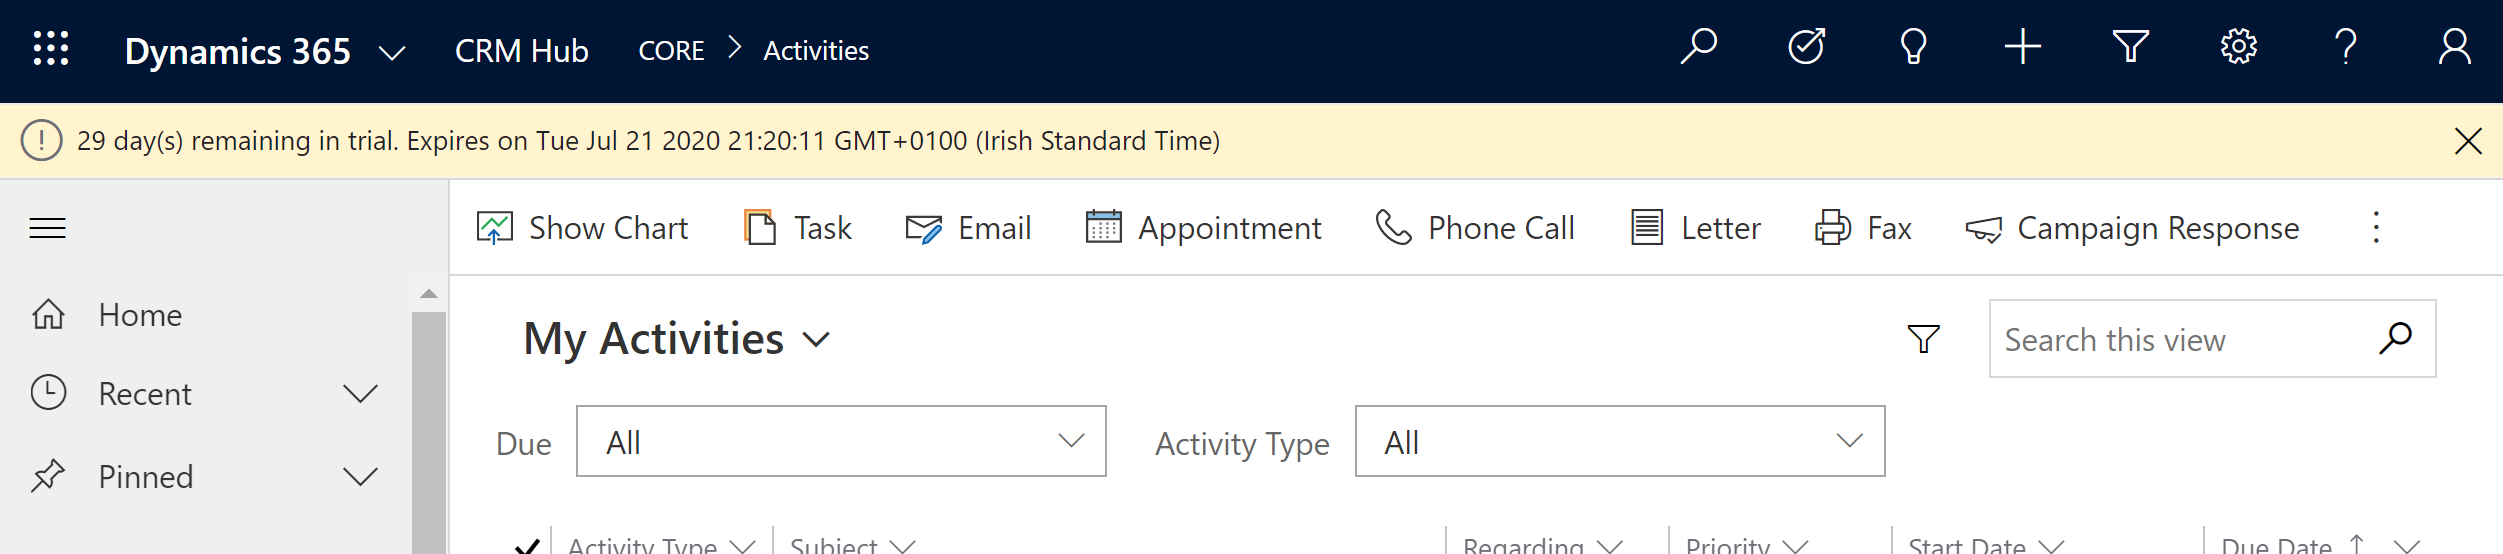
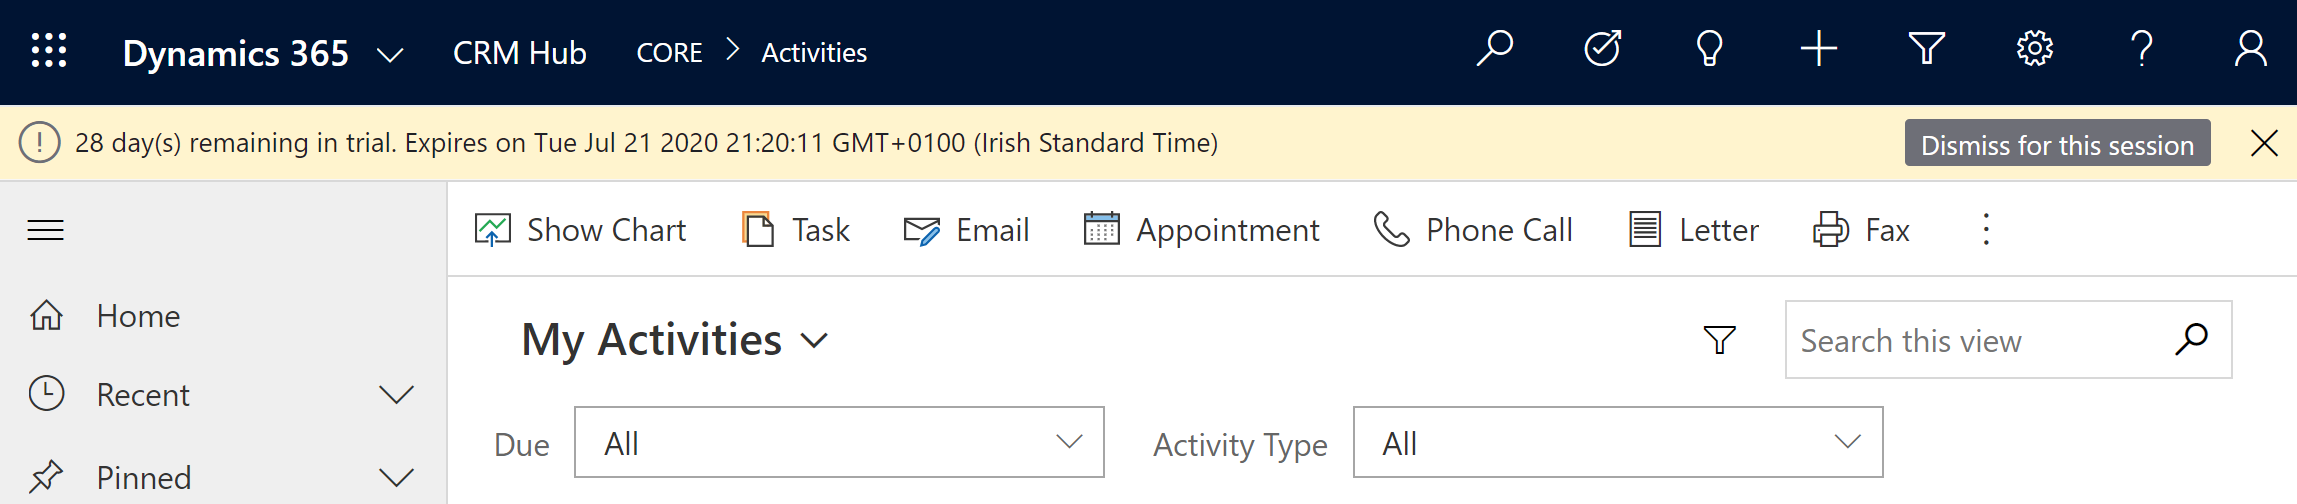
Added button to hide the notification for the current session

diff --git a/src/script.js b/src/script.js
@@ -1,73 +1,96 @@
-(function () {
+(function (Xrm, Promise) {
     "use strict";
 
-    // Prevent the script running more than once
-    if (!window.daysRemainingNotification) {
-        window.daysRemainingNotification = true;
+    var TRIAL_DURATION_IN_DAYS = 30;
 
-        var Xrm = window.Xrm;
-        var Promise = window.Promise || window.parent.Promise;
-
-        var TRIAL_DURATION_IN_DAYS = 30;
-
-        var notification = {
-            level: 4,
-            showCloseButton: true,
-            type: 2
-        };
-
-        function getCreatedOnDate() {
-            if (localStorage.getItem("ORG_CREATED_ON")) {
-                return Promise.resolve();
-            }
-
-            return Xrm.WebApi.retrieveMultipleRecords('organization', '?$select=createdon').then(
-                function success(results) {
-                    localStorage.setItem("ORG_CREATED_ON", results.entities[0].createdon);
-                }
-            )
+    var notification = {
+        level: 4,               // Information
+        type: 2,                // Top
+        showCloseButton: true,
+        action: {
+            actionLabel: "Dismiss for this session",
+            eventHandler: dismissNotification
         }
+    };
 
-        function setNotificationMessage() {
-            var daysRemaining = getDaysRemaining();
-            var expiry = getExpiryDate();
-
-            notification.message = daysRemaining + " day(s) remaining in trial. Expires on " + expiry;
-        }
-
-        function getDaysRemaining() {
-            var createdDate = new Date(localStorage.getItem("ORG_CREATED_ON"));
-            var currentDate = new Date();
-            return TRIAL_DURATION_IN_DAYS - getDaysDifference(createdDate, currentDate);
-        }
-
-        function getExpiryDate() {
-            var createdDate = new Date(localStorage.getItem("ORG_CREATED_ON"));
-            var expiry = addDays(TRIAL_DURATION_IN_DAYS, createdDate);
-            return expiry;
-        }
-
-        function getDaysDifference(fromDate, toDate) {
-            // https://stackoverflow.com/questions/2627473/how-to-calculate-the-number-of-days-between-two-dates
-            var ONE_DAY = 1000 * 60 * 60 * 24;
-            var differenceMs = Math.abs(toDate - fromDate);
-            return Math.round(differenceMs / ONE_DAY);
-        }
-
-        function addDays(numberOfDays, toDate) {
-            // https://stackoverflow.com/questions/563406/add-days-to-javascript-date
-            var date = new Date(toDate);
-            date.setDate(date.getDate() + numberOfDays);
-            return date;
-        }
-
-        function showNotification() {
-            Xrm.App.addGlobalNotification(notification);
-        }
+    if (scriptShouldLoad()) {
+        preventLoadingTwice();
 
         Promise.resolve()
-            .then(getCreatedOnDate)
+            .then(retrieveCreatedOnDate)
             .then(setNotificationMessage)
             .then(showNotification);
     }
-}())
+
+    function scriptShouldLoad() {
+        // User has clicked the button to dismiss
+        if (sessionStorage.getItem("EXPIRY_MESSAGE_HIDDEN")) return false;
+
+        // Script has already run on this browser window
+        return !window.daysRemainingNotification;
+    }
+
+    function preventLoadingTwice() {
+        window.daysRemainingNotification = true;
+    }
+
+    function retrieveCreatedOnDate() {
+        if (localStorage.getItem("ORG_CREATED_ON")) {
+            return Promise.resolve();
+        }
+
+        return Xrm.WebApi.retrieveMultipleRecords("organization", "?$select=createdon").then(
+            function success(results) {
+                localStorage.setItem("ORG_CREATED_ON", results.entities[0].createdon);
+            }
+        );
+    }
+
+    function setNotificationMessage() {
+        var daysRemaining = getDaysRemaining();
+        var expiry = getExpiryDate();
+
+        notification.message = daysRemaining + " day(s) remaining in trial. Expires on " + expiry;
+    }
+
+    function getDaysRemaining() {
+        var createdDate = new Date(localStorage.getItem("ORG_CREATED_ON"));
+        var currentDate = new Date();
+        return TRIAL_DURATION_IN_DAYS - getDaysDifference(createdDate, currentDate);
+    }
+
+    function getDaysDifference(fromDate, toDate) {
+        // https://stackoverflow.com/questions/2627473/how-to-calculate-the-number-of-days-between-two-dates
+        var ONE_DAY_IN_MILLISECONDS = 1000 * 60 * 60 * 24;
+        var differenceMilliseconds = Math.abs(toDate - fromDate);
+        return Math.round(differenceMilliseconds / ONE_DAY_IN_MILLISECONDS);
+    }
+
+    function getExpiryDate() {
+        var createdDate = new Date(localStorage.getItem("ORG_CREATED_ON"));
+        var expiry = addDays(TRIAL_DURATION_IN_DAYS, createdDate);
+        return expiry;
+    }
+
+    function addDays(numberOfDays, toDate) {
+        // https://stackoverflow.com/questions/563406/add-days-to-javascript-date
+        var date = new Date(toDate);
+        date.setDate(date.getDate() + numberOfDays);
+        return date;
+    }
+
+    function showNotification() {
+        return Xrm.App.addGlobalNotification(notification)
+            .then(function success(uniqueId) {
+                sessionStorage.setItem("EXPIRY_MESSAGE_UNIQUE_ID", uniqueId);
+            });
+    }
+
+    function dismissNotification() {
+        sessionStorage.setItem("EXPIRY_MESSAGE_HIDDEN", "EXPIRY_MESSAGE_HIDDEN");
+        var uniqueId = sessionStorage.getItem("EXPIRY_MESSAGE_UNIQUE_ID");
+        if (!uniqueId) return;
+        return Xrm.App.clearGlobalNotification(uniqueId);
+    }
+
+}(window.Xrm, window.Promise || window.parent.Promise))
